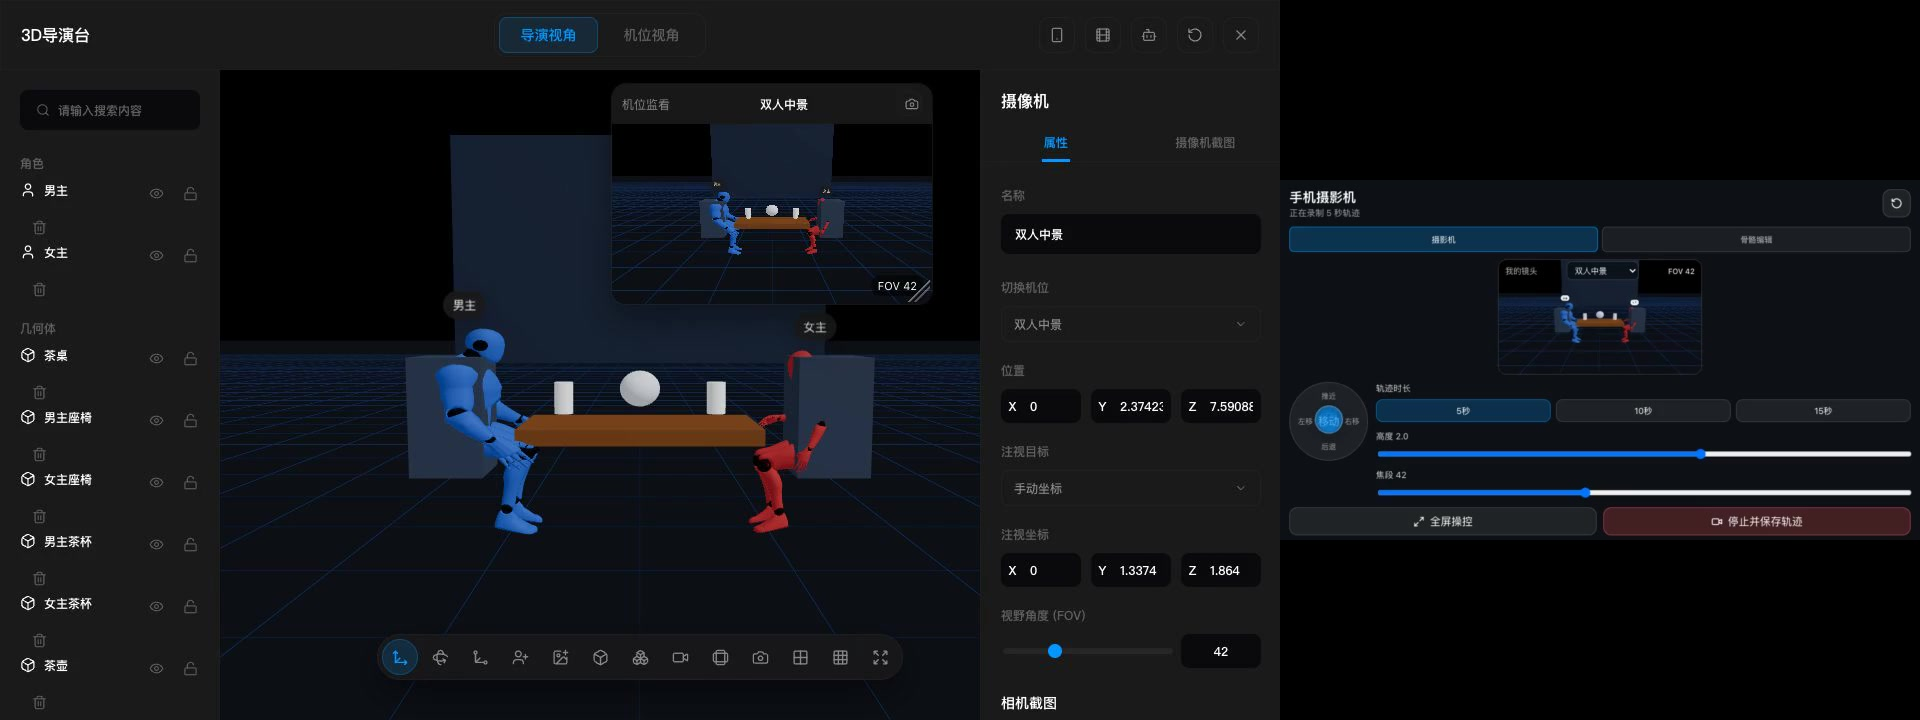
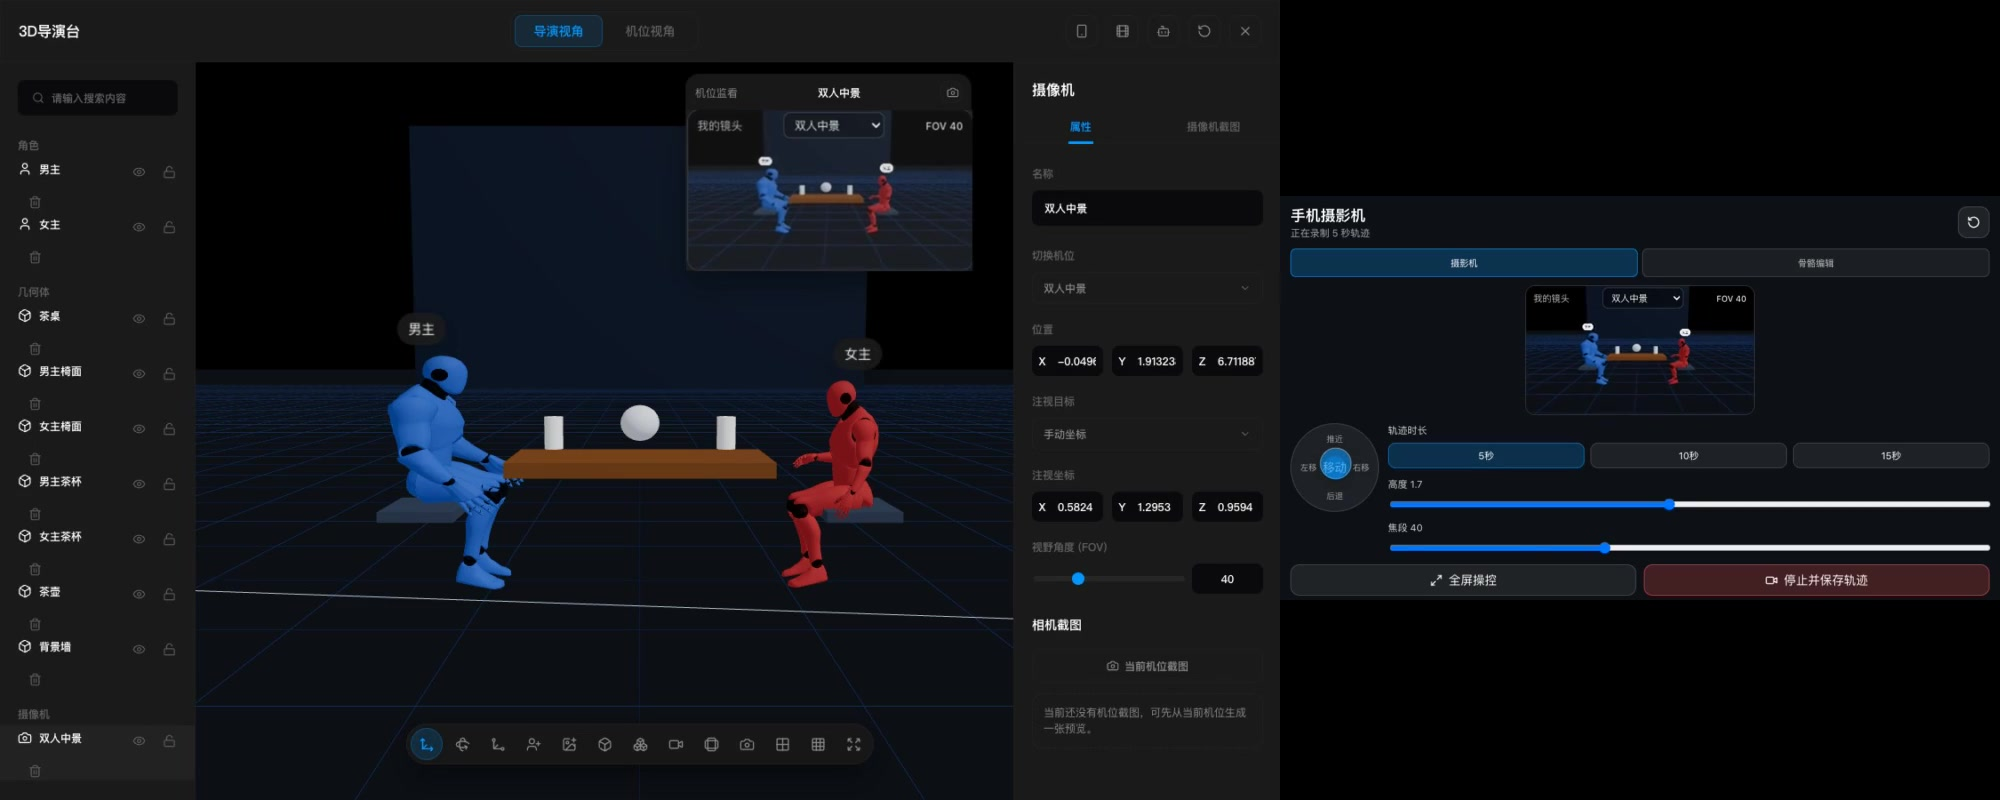
fix: surface motion prompts and refresh smooth demos

diff --git a/src/editor/panels/CharacterPanel.test.tsx b/src/editor/panels/CharacterPanel.test.tsx
@@ -76,6 +76,18 @@ it("marks the pose adjustment section for the compact character inspector layout
   expect(screen.getByText("姿势调节").closest(".inspector-section")).toHaveClass("pose-adjust-section");
 });
 
+it("keeps the AnimoFlow prompt visible before the built-in action controls", async () => {
+  const user = userEvent.setup();
+  render(<CharacterPanel />);
+
+  await user.click(screen.getByRole("button", { name: "动作" }));
+
+  const generator = screen.getByLabelText("AnimoFlow 动作生成");
+  const actionControl = screen.getByLabelText("角色动作");
+  expect(screen.getByLabelText("AnimoFlow 动作描述")).toHaveValue("一个人自然地端起茶杯喝茶，再放回桌上");
+  expect(generator.compareDocumentPosition(actionControl) & Node.DOCUMENT_POSITION_FOLLOWING).toBeTruthy();
+});
+
 it("adjusts axis values by dragging the gray XYZ prefix handles", () => {
   render(<CharacterPanel />);
 

diff --git a/src/styles/index.css b/src/styles/index.css
@@ -3933,9 +3933,9 @@ body.phone-immersive .phone-action-grid button {
 .animoflow-generator {
   display: grid;
   gap: 9px;
-  margin-top: 18px;
-  padding-top: 16px;
-  border-top: 1px solid rgb(var(--border-rgb) / 0.24);
+  margin: 0 0 18px;
+  padding-bottom: 16px;
+  border-bottom: 1px solid rgb(var(--border-rgb) / 0.24);
 }
 
 .animoflow-generator-heading {
@@ -3948,6 +3948,7 @@ body.phone-immersive .phone-action-grid button {
 }
 
 .animoflow-generator textarea {
+  width: 100%;
   min-height: 66px;
   resize: vertical;
   border: 1px solid rgb(var(--border-rgb) / 0.42);

diff --git a/src/editor/panels/CharacterPanel.tsx b/src/editor/panels/CharacterPanel.tsx
@@ -461,6 +461,7 @@ export function CharacterPanel() {
         </InspectorSection>
       ) : (
         <InspectorSection title="角色动作" className="pose-preset-section">
+          {!isCrowd ? <AnimoFlowActionGenerator character={role} /> : null}
           <InspectorSelectField
             label="动作"
             ariaLabel="角色动作"
@@ -541,7 +542,6 @@ export function CharacterPanel() {
               ))}
             </section>
           ) : null}
-          {!isCrowd ? <AnimoFlowActionGenerator character={role} /> : null}
         </InspectorSection>
       )}
     </InspectorPanel>